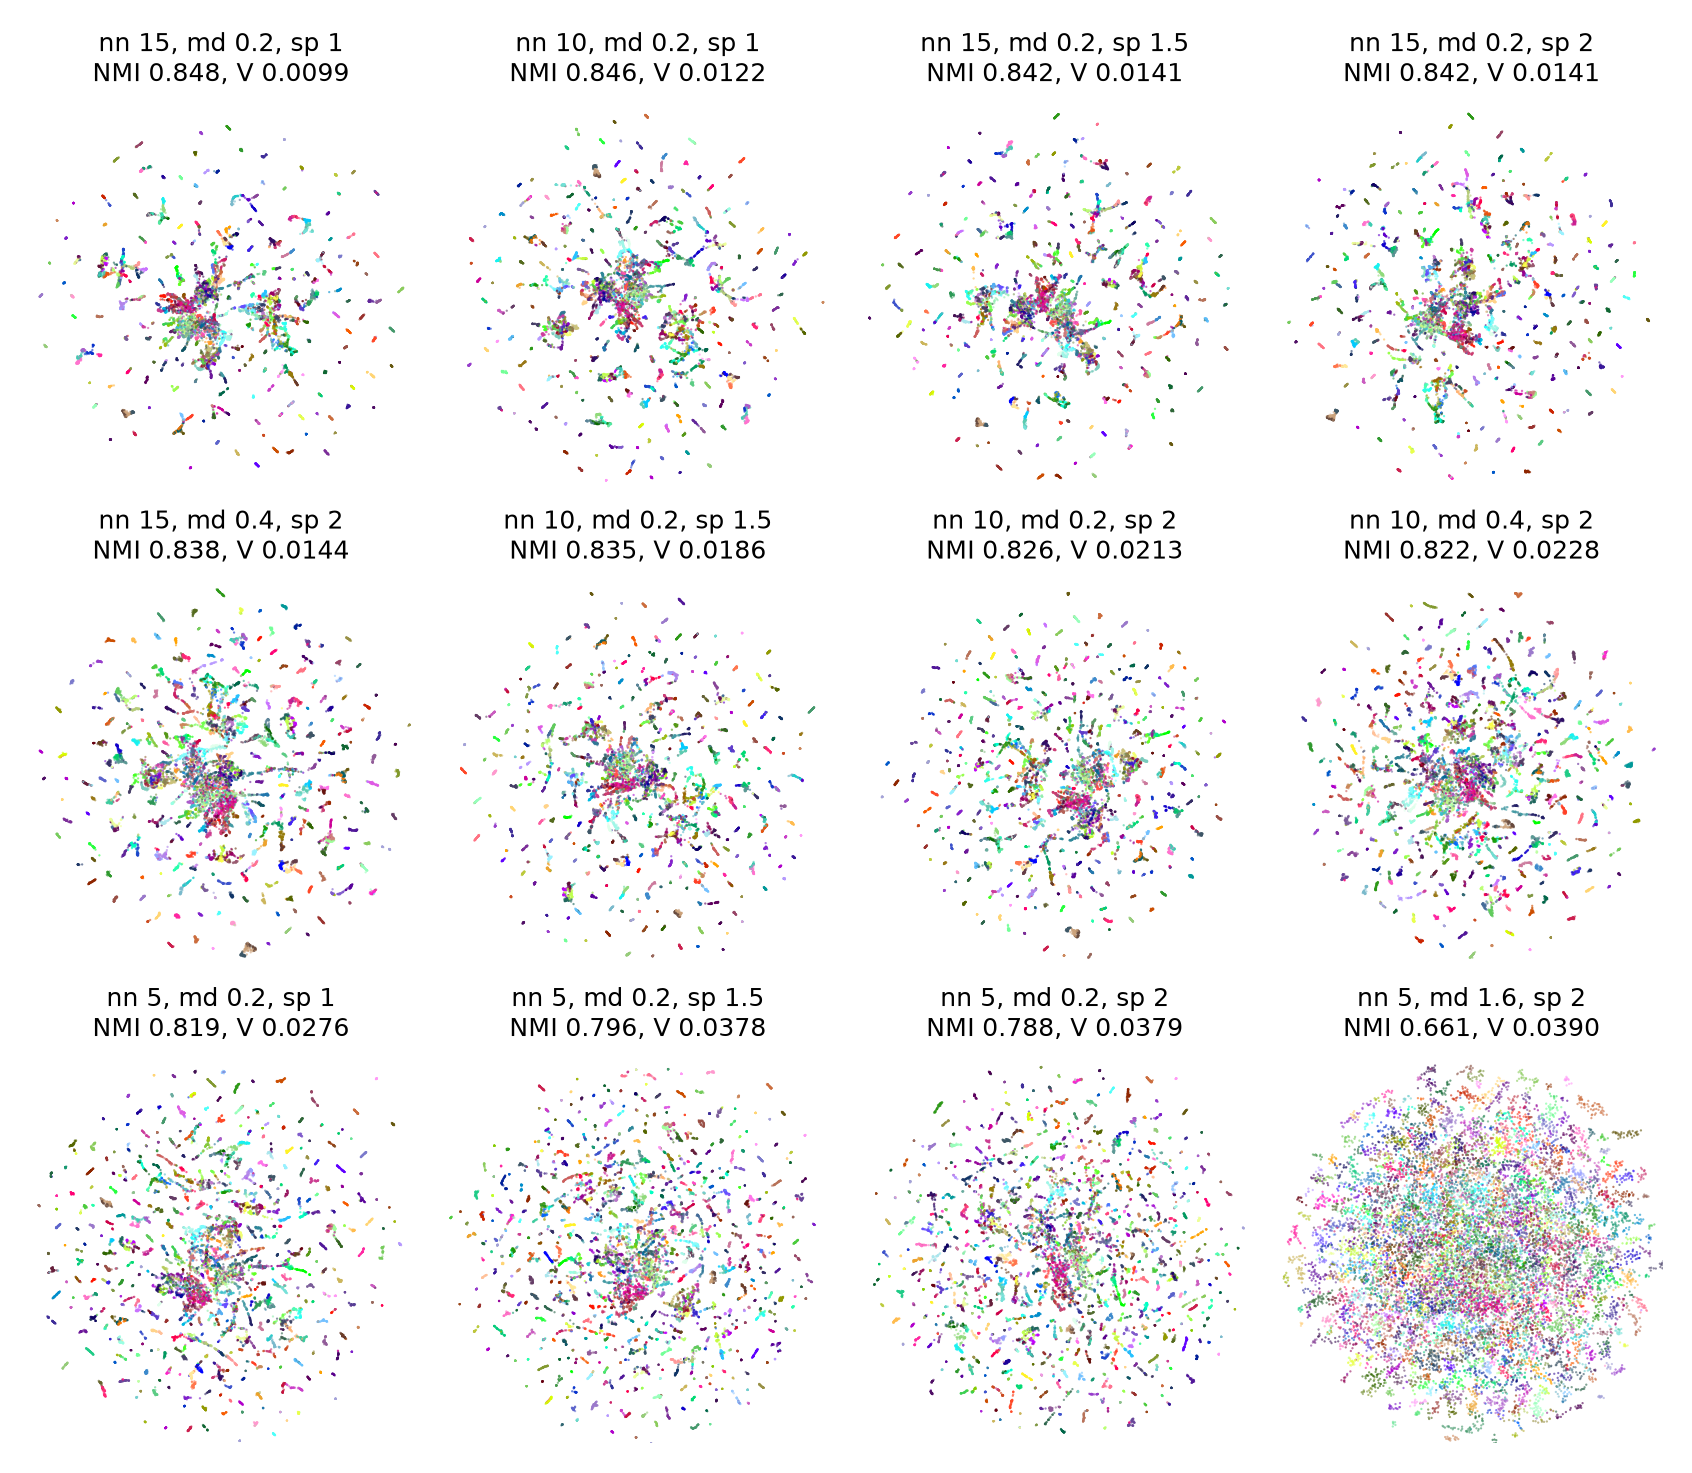
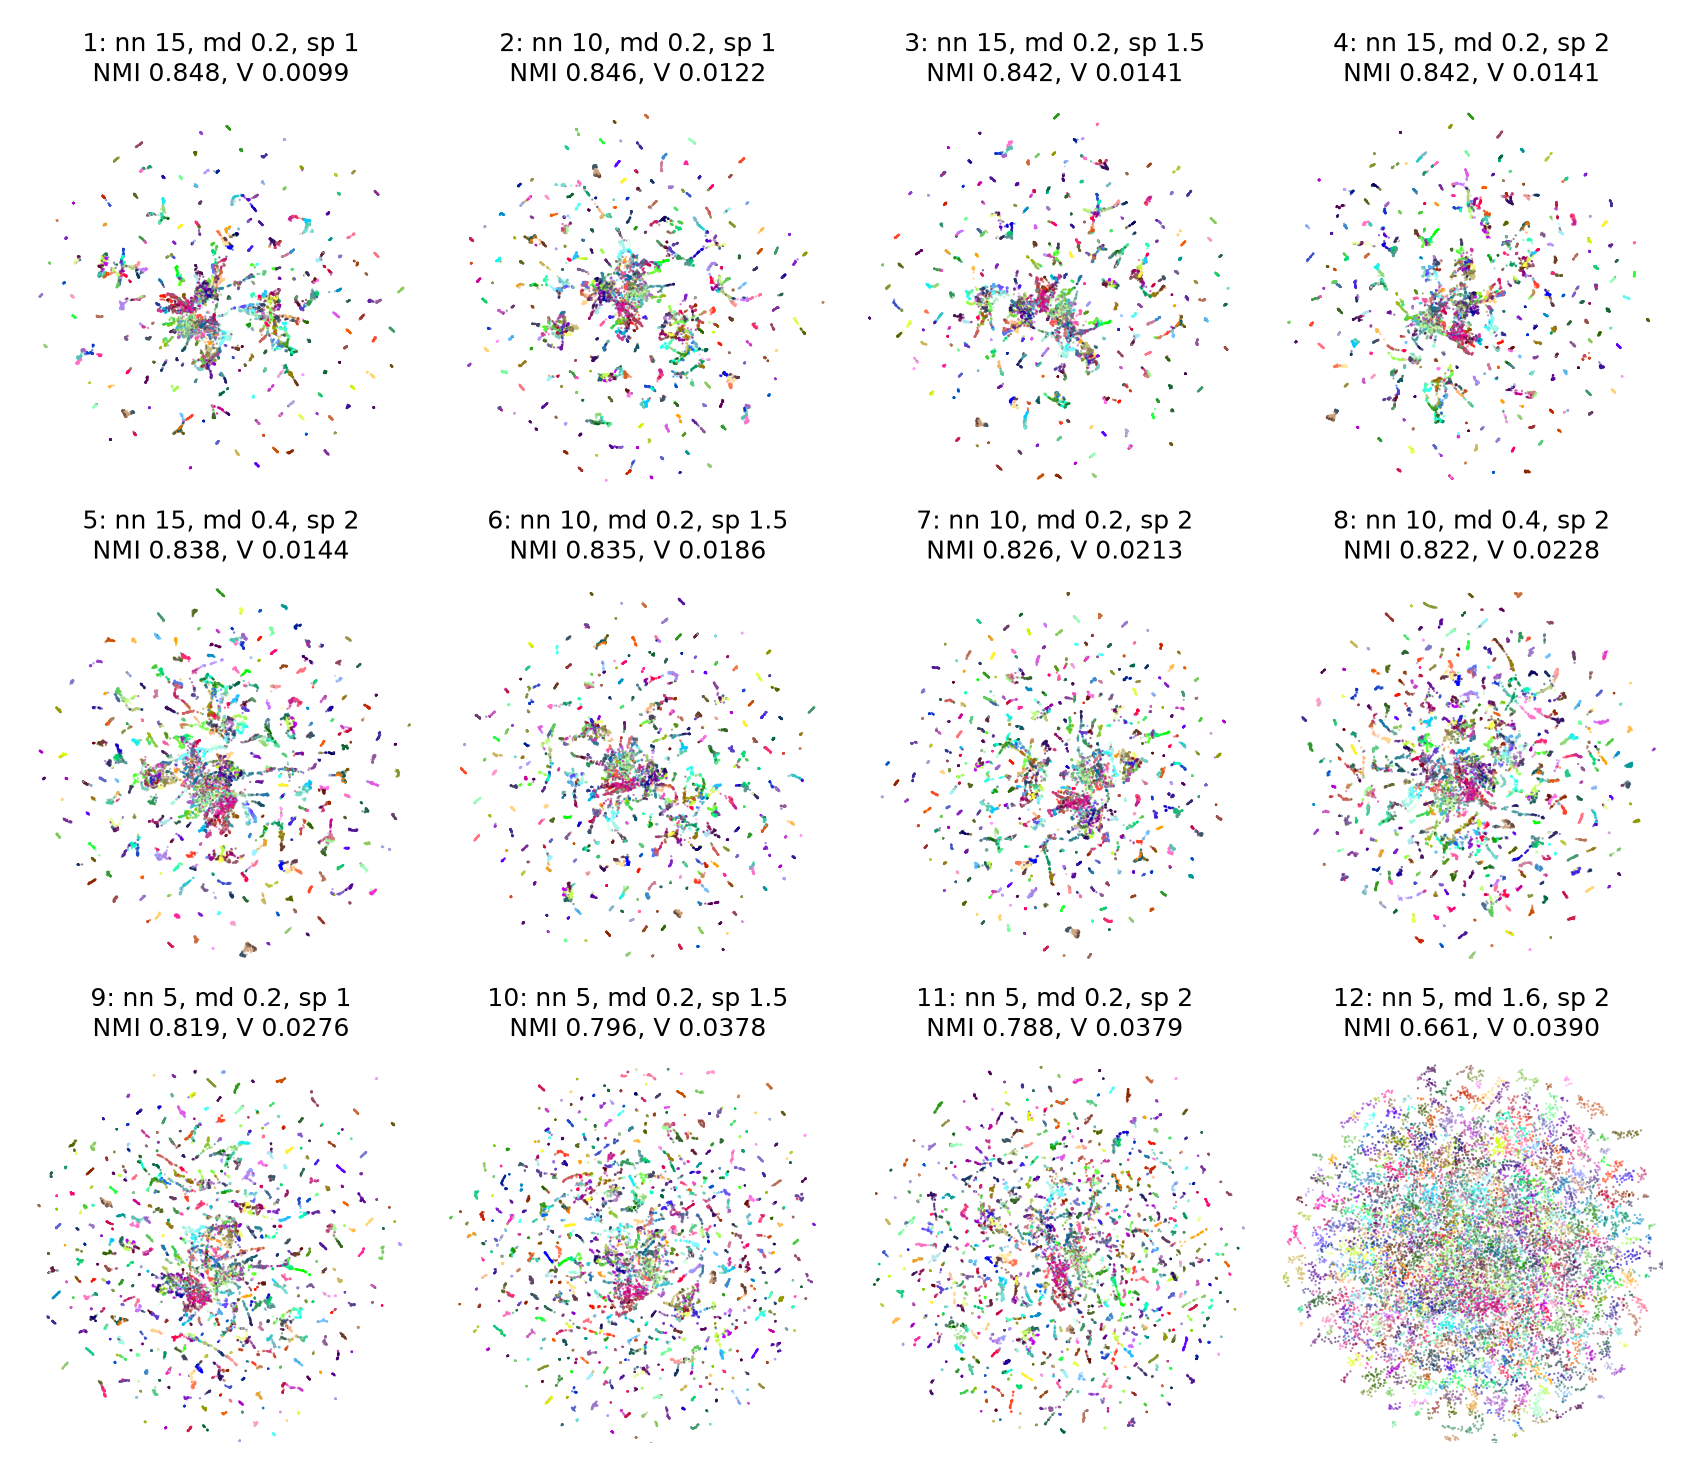
fix(plots): number Pareto fits, move legend, short facet titles

diff --git a/src/bloom_umaps/plots.py b/src/bloom_umaps/plots.py
@@ -96,21 +96,23 @@ def nmi_vs_variance(m: pd.DataFrame, out, xcol: str = "v_span") -> list[str]:
             linewidth=0.9,
             zorder=3,
         )
-    for i in np.flatnonzero(front):
-        r = m.loc[i]
+    order = np.flatnonzero(front)[np.argsort(x[front])]
+    for k, i in enumerate(order, 1):
         ax.annotate(
-            f"nn{r.n_neighbors} md{r.min_dist:g} sp{r.spread:g}",
-            (r[xcol], r.nmi_mean),
-            xytext=(4, 3),
+            str(k),
+            (x[i], y[i]),
+            xytext=(0, 5),
             textcoords="offset points",
+            ha="center",
+            va="bottom",
             fontsize=6,
-            color="0.25",
+            color="0.15",
         )
     ax.set_xlabel(xlab)
     ax.set_ylabel("Seeded k-means NMI\n(mean \u00b1 sd, 3 seeds)")
     ax.set_title(
-        f"All {len(m)} UMAP fits; outlined = Pareto front "
-        "(no fit has both higher NMI and higher variance)",
+        f"All {len(m)} UMAP fits; outlined and numbered = Pareto front "
+        "(no other fit has both higher NMI and higher variance)",
         loc="left",
     )
     ax.margins(0.04)
@@ -122,7 +124,14 @@ def nmi_vs_variance(m: pd.DataFrame, out, xcol: str = "v_span") -> list[str]:
         Line2D([], [], ls="none", marker=mk, ms=5, color="0.4", label=f"spread {sp:g}")
         for sp, mk in SPREAD_MARKER.items()
     ]
-    ax.legend(handles=h, ncol=2, loc="upper right", handletextpad=0.3, columnspacing=1.0)
+    ax.legend(
+        handles=h,
+        ncol=1,
+        loc="upper left",
+        bbox_to_anchor=(1.01, 1.0),
+        handletextpad=0.3,
+        borderaxespad=0,
+    )
 
     axs = [fig.add_subplot(gs[1, j]) for j in range(3)]
     for j, (sp, g) in enumerate(m.groupby("spread")):
@@ -132,28 +141,34 @@ def nmi_vs_variance(m: pd.DataFrame, out, xcol: str = "v_span") -> list[str]:
             a.plot(
                 gg[xcol], gg.nmi_mean, "-", color=col[nn], lw=0.9, marker=SPREAD_MARKER[sp], ms=3
             )
-            a.annotate(
-                f"{gg.min_dist.iloc[0]:g}",
-                (gg[xcol].iloc[0], gg.nmi_mean.iloc[0]),
-                xytext=(-3, 0),
-                textcoords="offset points",
-                ha="right",
-                va="center",
-                fontsize=6,
-                color=col[nn],
+            a.plot(
+                gg[xcol].iloc[0],
+                gg.nmi_mean.iloc[0],
+                ls="none",
+                marker=SPREAD_MARKER[sp],
+                ms=6,
+                mfc=col[nn],
+                mec="k",
+                mew=0.8,
             )
-        a.set_title(
-            f"spread {sp:g}: line runs min_dist 0.2 \u2192 {g.min_dist.max():g}", loc="left"
-        )
+        a.set_title(f"spread {sp:g} (min_dist 0.2\u2013{g.min_dist.max():g})", loc="left")
         a.set_xlim(ax.get_xlim()), a.set_ylim(ax.get_ylim())
         a.set_xlabel(xlab if j == 1 else "")
         if j == 0:
             a.set_ylabel("Seeded k-means NMI")
         else:
             a.tick_params(labelleft=False)
+    fig.text(
+        axs[0].get_position().x0,
+        axs[0].get_position().y1 + 0.075,
+        "One line per n_neighbors, joining fits in order of increasing min_dist; "
+        "large outlined marker = min_dist 0.2",
+        fontsize=7,
+        color="0.25",
+    )
     fig.savefig(out, bbox_inches="tight")
     plt.close(fig)
-    return m.loc[front, "fit_id"].tolist()
+    return m.loc[order, "fit_id"].tolist()
 
 
 def thumbnails(

diff --git a/scripts/03_plot.py b/scripts/03_plot.py
@@ -19,15 +19,15 @@ print("pareto (v_total):", front_t)
 tax = pd.read_csv(DATA / "ait33_subclass_taxonomy.csv")
 colours = dict(zip(tax.subclass_id_label, tax.subclass_color, strict=False))
 labels = io.read_labels()
-f = m.set_index("fit_id").loc[front].sort_values("v_span")
+f = m.set_index("fit_id").loc[front]  # already ordered by v_span, as numbered in the plot
 fits = [
     (
         fid,
         sweep.read_fit(fid),
-        f"nn {r.n_neighbors}, md {r.min_dist:g}, sp {r.spread:g}\n"
+        f"{k}: nn {r.n_neighbors}, md {r.min_dist:g}, sp {r.spread:g}\n"
         f"NMI {r.nmi_mean:.3f}, V {r.v_span:.4f}",
     )
-    for fid, r in f.iterrows()
+    for k, (fid, r) in enumerate(f.iterrows(), 1)
 ]
 plots.thumbnails(fits, labels, colours, RESULTS / "pareto_thumbnails.png")
 print("wrote", RESULTS / "pareto_thumbnails.png")
